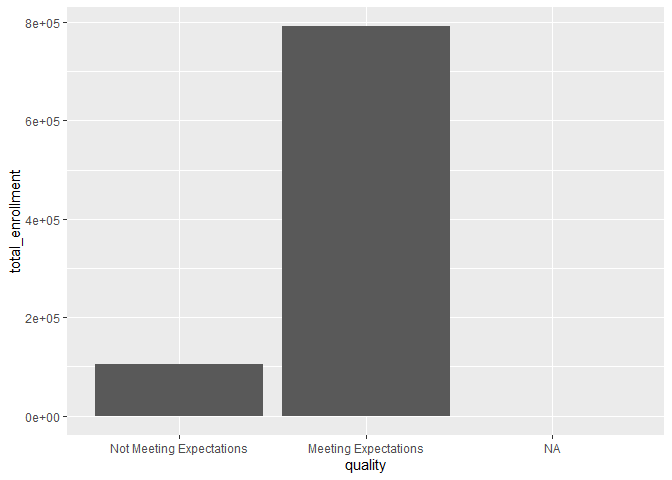
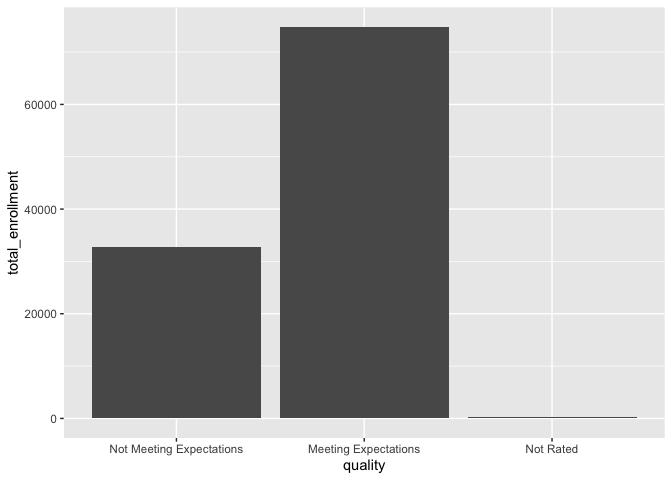
Updates to README

diff --git a/README.md b/README.md
@@ -186,6 +186,9 @@ table(mke_rc$report_card_type, mke_rc$school_year) %>%
 
 ## How many students are in schools that *Meet Expectations*?
 
+Now that we have our `mke_rc` table, let us ask how many students are
+enrolled in schools that are rated *Meets Expectations* or higher.
+
 ``` r
 # Designate which ratings fall below 'Meeting Expectations'
 
@@ -195,26 +198,49 @@ low_performers <- c("Alternate Rating - Needs Improvement",
                     "Meets Few Expectations",
                     "Meets Few Expectations^")
 
+# Designate which ratings should be excluded from buckets
+
 not_rated <- c("Not Rated",
                "NR-DATA")
 
-meets_expecs <- report_cards %>%
+# Create `quality` field that designates meeting expecs or not
+
+meets_expecs <- mke_rc %>%
   filter(school_year == "2018-19") %>%
   mutate(quality = ifelse(overall_rating %in% low_performers, "Not Meeting Expectations", 
                           ifelse(overall_rating %in% not_rated, "Not Rated", "Meeting Expectations"))) %>%
   modify_at("quality", factor, levels = c("Not Meeting Expectations",
-                                          "Meeting Expectations")) %>%
+                                          "Meeting Expectations",
+                                          "Not Rated")) %>%
   group_by(quality) %>%
-  summarise(total_enrollment = sum(school_enrollment))
-#> Warning: Factor `quality` contains implicit NA, consider using
-#> `forcats::fct_explicit_na`
+  summarise(total_enrollment = sum(school_enrollment)) %>%
+  
+  # Calculate percentage of total
+  
+  mutate(percent = scales::percent(total_enrollment/sum(total_enrollment)))
+
+# Return the data to inspect it
+
+meets_expecs
+#> # A tibble: 3 x 3
+#>   quality                  total_enrollment percent
+#>   <fct>                               <dbl> <chr>  
+#> 1 Not Meeting Expectations            32834 30%    
+#> 2 Meeting Expectations                74813 69%    
+#> 3 Not Rated                             311 0%
+
+# Visualize with bar graphs
 
 meets_expecs %>%
   ggplot(aes(quality, total_enrollment)) +
   geom_col()
-#> Warning: Removed 1 rows containing missing values (position_stack).
 ```
 
 ![](README_files/figure-gfm/unnamed-chunk-8-1.png)<!-- -->
 
-***To Be Updated…***
+As we can see, nearly 7/10 students in Milwaukee are in schools that
+receive a rating of *Meets Expectations* or higher.
+
+## How Many Choice and Charter Schools are in Milwaukee?
+
+***Still being updated…***
